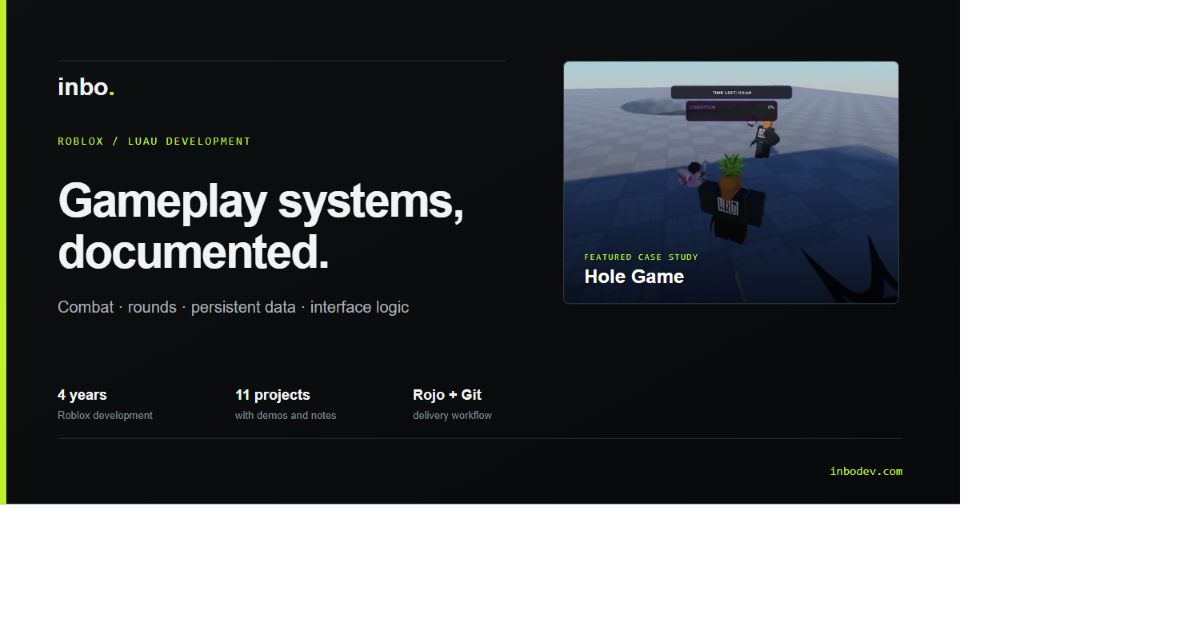
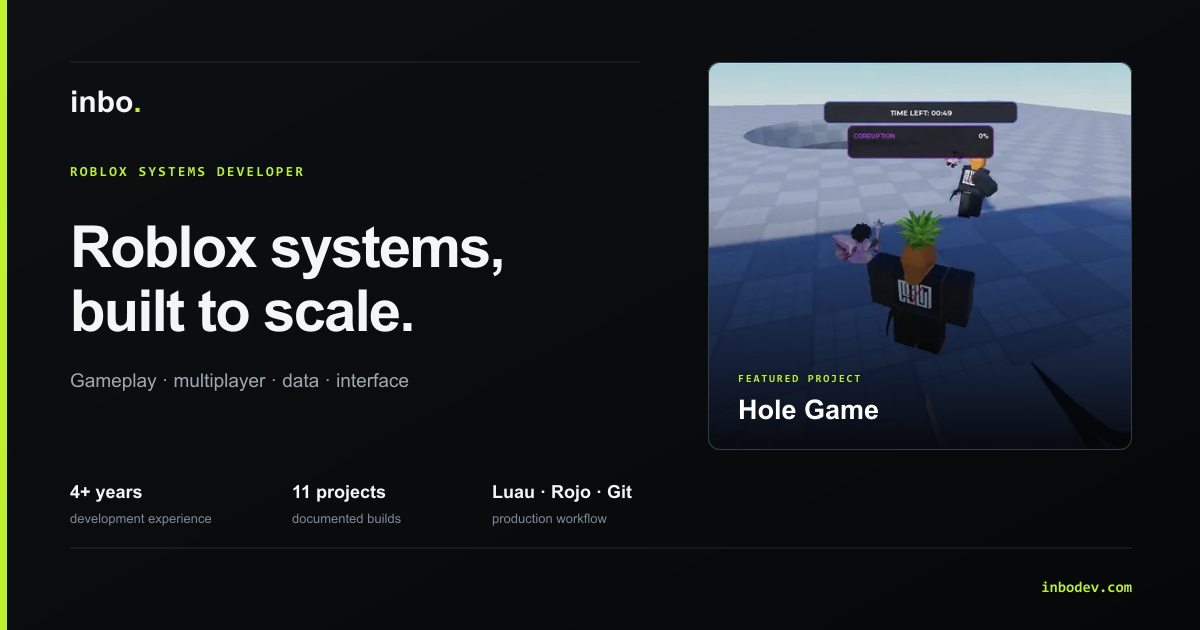
Fix and refine social preview card

diff --git a/index.html b/index.html
@@ -15,7 +15,8 @@
   <meta property="og:url" content="https://inbodev.com/">
   <meta property="og:title" content="inbo | Roblox Systems Developer">
   <meta property="og:description" content="Four years building combat, round systems, persistent data, UI, and multiplayer gameplay in Luau. View the work and implementation notes.">
-  <meta property="og:image" content="https://inbodev.com/images/social-share.png?v=20260902-1">
+  <meta property="og:image" content="https://inbodev.com/images/social-share.png?v=20260902-2">
+  <meta property="og:image:type" content="image/png">
   <meta property="og:image:width" content="1200">
   <meta property="og:image:height" content="630">
   <meta property="og:image:alt" content="inbo Roblox systems developer portfolio and featured Hole Game project">
@@ -23,7 +24,7 @@
   <meta name="twitter:card" content="summary_large_image">
   <meta name="twitter:title" content="inbo | Roblox Systems Developer">
   <meta name="twitter:description" content="Four years building combat, round systems, persistent data, UI, and multiplayer gameplay in Luau.">
-  <meta name="twitter:image" content="https://inbodev.com/images/social-share.png?v=20260902-1">
+  <meta name="twitter:image" content="https://inbodev.com/images/social-share.png?v=20260902-2">
   <meta name="twitter:image:alt" content="inbo Roblox systems developer portfolio and featured Hole Game project">
   <link rel="stylesheet" href="https://cdn.jsdelivr.net/npm/@fontsource/syne@5.1.0/latin.css">
   <link rel="stylesheet" href="https://cdn.jsdelivr.net/npm/@fontsource/fira-code@5.1.0/latin.css">
